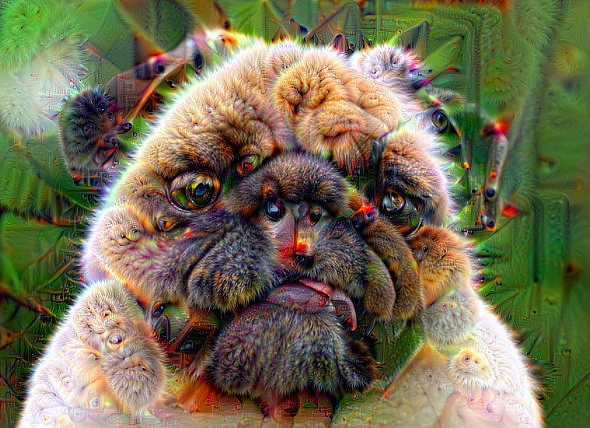
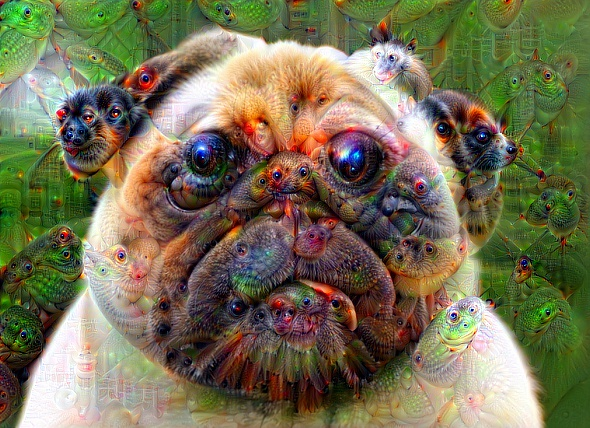
Remove guide feature. Add layer argument

diff --git a/deep_dream.py b/deep_dream.py
@@ -11,13 +11,16 @@ import tqdm
 import scipy.ndimage as nd
 from utils import deprocess, preprocess, clip
 
+Tensor = torch.cuda.FloatTensor if torch.cuda.is_available else torch.FloatTensor
 
-def dream(image, model, iterations, lr, guide_features=None):
-    image = Variable(torch.cuda.FloatTensor(image), requires_grad=True)
+
+def dream(image, model, iterations, lr):
+    """ Updates the image to maximize outputs for n iterations """
+    image = Variable(Tensor(image), requires_grad=True)
     for i in range(iterations):
         model.zero_grad()
         out = model(image)
-        loss = torch.index_select(out, 1, guide_features).norm() if guide_features is not None else out.norm()
+        loss = out.norm()
         loss.backward()
         ratio = np.abs(image.grad.data.cpu().numpy()).mean()
         norm_lr = lr / ratio
@@ -27,17 +30,9 @@ def dream(image, model, iterations, lr, guide_features=None):
     return image.cpu().data.numpy()
 
 
-def deep_dream(image, model, iterations, lr, octave_scale, num_octaves, guide_image=None):
+def deep_dream(image, model, iterations, lr, octave_scale, num_octaves):
+    """ Main deep dream method """
     image = preprocess(image).unsqueeze(0)
-
-    guide_features = None
-    if guide_image is not None:
-        # Extract interesting features from guide image
-        guide_image = preprocess(guide_image).unsqueeze(0)
-        guide_image = Variable(guide_image.type(torch.cuda.FloatTensor))
-        out = model(guide_image).cpu().data.numpy().squeeze()
-        out = out.reshape((out.shape[0], -1))
-        guide_features = torch.cuda.LongTensor(np.argsort(out.mean(axis=1))[-10:])
 
     # Extract octaves for each dimension
     octaves = [image.cpu().data.numpy()]
@@ -50,11 +45,11 @@ def deep_dream(image, model, iterations, lr, octave_scale, num_octaves, guide_im
             # Upsample detail to new dimension
             h, w = octave_base.shape[-2:]
             dh, dw = detail.shape[-2:]
-            detail = nd.zoom(detail, (1, 1, 1.0 * h / dh, 1.0 * w / dw), order=1)
+            detail = nd.zoom(detail, (1, 1, h / dh, w / dw), order=1)
         # Add deep dream detail from previous octave to new base
         input_image = octave_base + detail
         # Get new deep dream image
-        dreamed_image = dream(input_image, model, iterations, lr, guide_features)
+        dreamed_image = dream(input_image, model, iterations, lr)
         # Extract deep dream details
         detail = dreamed_image - octave_base
 
@@ -64,22 +59,22 @@ def deep_dream(image, model, iterations, lr, octave_scale, num_octaves, guide_im
 if __name__ == "__main__":
     parser = argparse.ArgumentParser()
     parser.add_argument("--input_image", type=str, default="images/supermarket.jpg", help="path to input image")
-    parser.add_argument("--guide_image", type=str, default=None, help="path to guide image")
     parser.add_argument("--iterations", default=15, help="number of gradient ascent steps per octave")
+    parser.add_argument("--at_layer", default=27, type=int, help="layer at which we modify image to maximize outputs")
     parser.add_argument("--lr", default=0.01, help="learning rate")
     parser.add_argument("--octave_scale", default=1.4, help="image scale between octaves")
     parser.add_argument("--num_octaves", default=10, help="number of octaves")
     args = parser.parse_args()
 
-    # Load images
+    # Load image
     image = Image.open(args.input_image)
-    guide_image = Image.open(args.input_image) if args.guide_image else None
 
     # Define the model
     network = models.vgg19(pretrained=True)
     layers = list(network.features.children())
-    model = nn.Sequential(*layers[:28])
-    model = model.cuda()
+    model = nn.Sequential(*layers[: (args.at_layer + 1)])
+    if torch.cuda.is_available:
+        model = model.cuda()
     print(network)
 
     # Extract deep dream image
@@ -90,7 +85,6 @@ if __name__ == "__main__":
         lr=args.lr,
         octave_scale=args.octave_scale,
         num_octaves=args.num_octaves,
-        guide_image=guide_image,
     )
 
     # Save and plot image
